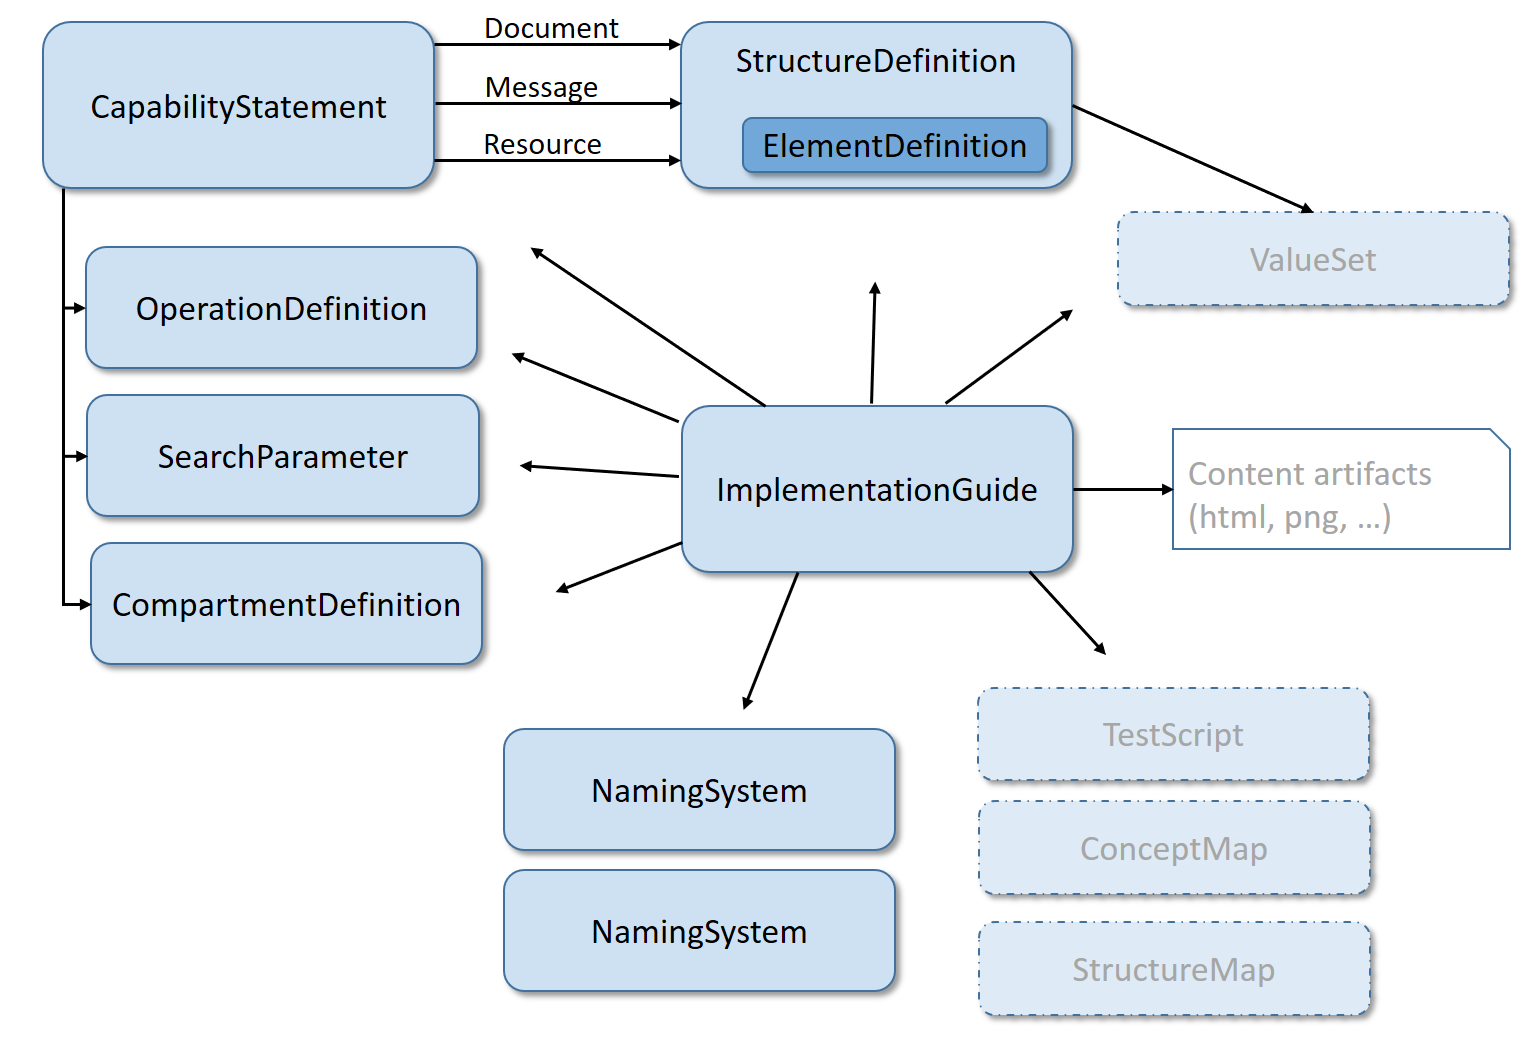
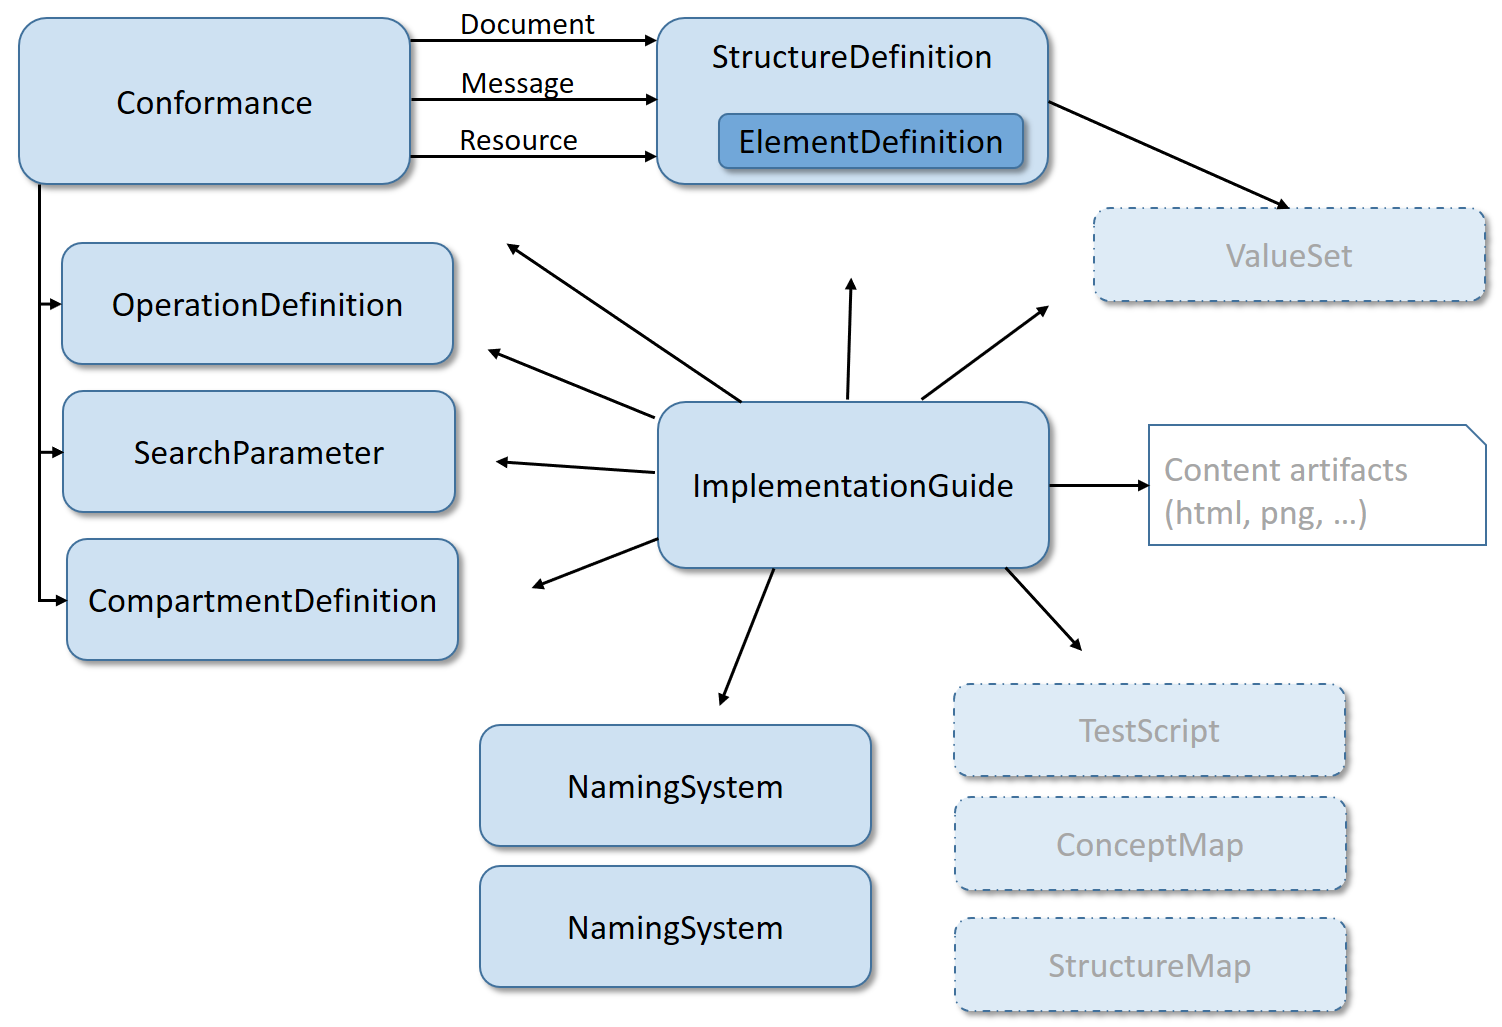
Editorial changes to conformance page based on feedback by Grahame
git-svn-id: http://gforge.hl7.org/svn/fhir/trunk/build@9255 2f0db536-2c49-4257-a3fa-e771ed206c19

diff --git a/source/conformance-module.html b/source/conformance-module.html
@@ -24,23 +24,24 @@ in order to support consistent definitions for schema and UML derived code.
  <tr>
  <td width="33%">
 <ul>
-  <li><a href="conformance.html">CapabilityStatement</a></li>
+  <li><a href="conformance.html">Conformance (a.k.a. Capability statement)</a></li>
   <li><a href="structuredefinition.html">StructureDefinition</a></li>
-  <li><a href="elementdefinition.html">ElementDefinition</a></li>  
-</ul>
-</td>
- <td width="33%">
- <ul>
   <li><a href="operationdefinition.html">OperationDefinition</a></li>
   <li><a href="searchparameter.html">SearchParameter</a></li>
-  <li><a href="compartmentdefinition.html">CompartmentDefinition</a></li>
   </ul>
 </td>
  <td width="33%">
-<ul>
- <li><a href="namingsystem.html">NamingSystem</a></li>
+ <ul>
+  <li><a href="compartmentdefinition.html">CompartmentDefinition</a></li>
   <li><a href="dataelement.html">DataElement</a></li>
   <li><a href="implementationguide.html">ImplementationGuide</a></li>
+  <li><a href="elementdefinition.html">ElementDefinition (datatype)</a></li>    
+</ul>
+</td>
+ <td width="33%">
+<ul>
+  <li><a href="profiling.html">Full profiling details</a></li>
+  <li><a href="conformance-rules.html">Detailed conformance rules</a></li>
  </ul>
 </td>
 </tr>
@@ -72,7 +73,7 @@ in order to support consistent definitions for schema and UML derived code.
         listed above in a computable fashion. These resources are collectively called the
             <em>conformance resources</em>. Although these conformance resources can be used in
         isolation they are typically used in the context of an <em>Implementation Guide</em> or a
-            <em>capability statement</em>:</p>
+            <em>capability statement (Conformance resource)</em>:</p>
     <ul>
         <li><em>Implementation Guides</em> are documents published by a domain, institution or
             vendor that describe how FHIR is adapted to support a certain usecase (or set of
@@ -88,18 +89,19 @@ in order to support consistent definitions for schema and UML derived code.
     <p>The content of an Implementation Guide is described using the <a
             href="implementationguide.html">ImplementationGuide</a> resource,
         while the capability statement is represented by the <a
-            href="conformance.html">CapabilityStatement</a>. These two resources
+            href="conformance.html">Conformance</a> resource. These two resources
         make use of the complete set of conformance resources to fully capture the set of
-        adaptations they represent. More specifically, the conformance resources are:</p>
+        adaptations they represent.  Note that the Conformance resource is one of the <em>conformance resources</em>,
+		the first just describing the capabilities of a system, while the latter is the set of all conformance resources, including:</p>
+	
     <ul>
         <li>The <a href="structuredefinition.html">StructureDefinition</a>
             defines how a particular structure (Resource, Extension or Data Type) is used:<ul>
-                <li>Describe how existing elements in resources are used</li>
-                <li>Identify existing elements that are not used</li>
-                <li>Define extensions that can be used in resources or data types</li>
-                <li>Exact rules about constrainment can be found in the section on <a
-                        href="conformance-rules.html">conformance rules</a>
-                </li>
+                <li>Describe how existing elements in resources are used and identify existing elements that are not used. Exact rules on how to do this can be found in the section on <a href="conformance-rules.html">conformance rules</a>
+				</li>
+                <li>Define <a href="extensibility.html">extensions</a> that can be used in resources or data types.</li>
+				<li>Refine the contents of valuesets, see the <a href="terminology-module.html">terminology module</a> for more details.
+				</li>
             </ul>
         </li>
         <li>The <a href="operationdefinition.html">OperationDefinition</a>
@@ -109,14 +111,11 @@ in order to support consistent definitions for schema and UML derived code.
             additional search capabilities in addition to those in the base specification </li>
         <li>The <a href="compartmentdefinition.html">CompartmentDefinition</a>
             describes a logical grouping for resources, used in access control or search</li>
-        <li>The <a href="namingsystem.html">NamingSystem</a> resources names
-            terminologies and identifier systems in use in a domain</li>
         <li>The <a href="dataelement.html">DataElement</a> resource is a formal
             description of a single piece of information that can be gathered and reported.</li>
     </ul>
-	    <p>Conformance resources may be used independently of both of these resources, to cover uses
-        that do not need the context of a guide or capability statement. See the section 
-		<a href="#uses">Common use cases</a> for examples of such uses.</p>
+
+	    <p>Conformance resources may be used independently, not just within the context of an ImplementationGuide resource or capability statement. See the section <a href="#uses">Common use cases</a> for examples of such uses.</p>
 
     <p>The conformance resources and their relationships are shown below:</p>
     <p><img src="conformance-module-resources.png" alt="Image showing the conformance resources" width="800px"/></p>
@@ -136,20 +135,22 @@ in order to support consistent definitions for schema and UML derived code.
             search parameters or compartments definitions uploaded to that system. This may result
             in searches that use large amounts of processing power, expose sensitive patient data,
             or both.</li>
-        <li>If a server acts as a repository of any conformance resource, it should provide
-            read-only access, so dependent systems do not run the risk of being misconfigured.</li>
+        <li>If a server acts as a repository of conformance resources, it should tightly control
+modifications to its data: updates to conformance resources are usually managed by a review process to ensure
+backwards compatibility ad stability. Worst case, changes to these resources may result in dependent systems 
+running the risk of being misconfigured.</li>
     </ul>
 
 
 <a name="uses"> </a>
 <h3>Common use Cases</h3>
 <p>Conformance resources are commonuly used as part of an <a href="implementationguide.html">Implementation Guide</a> or 
-<a href="conformance.html">CapabilityStatement</a>. There are many ways to use the resources independently however, including:</p>
+<a href="conformance.html">Conformance</a> resource. There are many ways to use the resources independently however, including:</p>
 
     <ul>
         <li>An instance of a resource may reference one or more <code>StructureDefinitions</code> to
             claim conformance to the rules layed out in those StructureDefinitions</li>
-        <li>A server may serve <code>CapabilityStatement</code> resources, effectively functioning
+        <li>A server may serve <code>Conformance</code> resources, effectively functioning
             as a discovery endpoint for services within an organization</li>
         <li>A server may hold a set of DataElement resources to become a Data Dictionary of
             reuseable datamodels as per ISO 11179.</li>
@@ -166,9 +167,8 @@ in order to support consistent definitions for schema and UML derived code.
 <h3>Developmental Roadmap</h3>
     <p>A subset of the conformance resources have been tested and used in production tooling and as
         such have reached a maturity level where changes become less likely. These are
-            <code>CapabilityStatement</code>, <code>StructureDefinition</code>,
-            <code>ValueSet</code>, <code>OperationDefinition</code>, <code>SearchParameter</code>,
-            <code>DataElement</code> and <code>NamingSystem</code>. </p>
+            <code>Conformance</code>, <code>StructureDefinition</code>,
+            <code>ValueSet</code>, <code>OperationDefinition</code>, <code>SearchParameter</code> and <code>DataElement</code>.</p>
     <p>Other resources are still under development:</p>
     <ul>
         <li><code>ImplementationGuide</code>: used in the HL7 production tooling, but has not received much use
